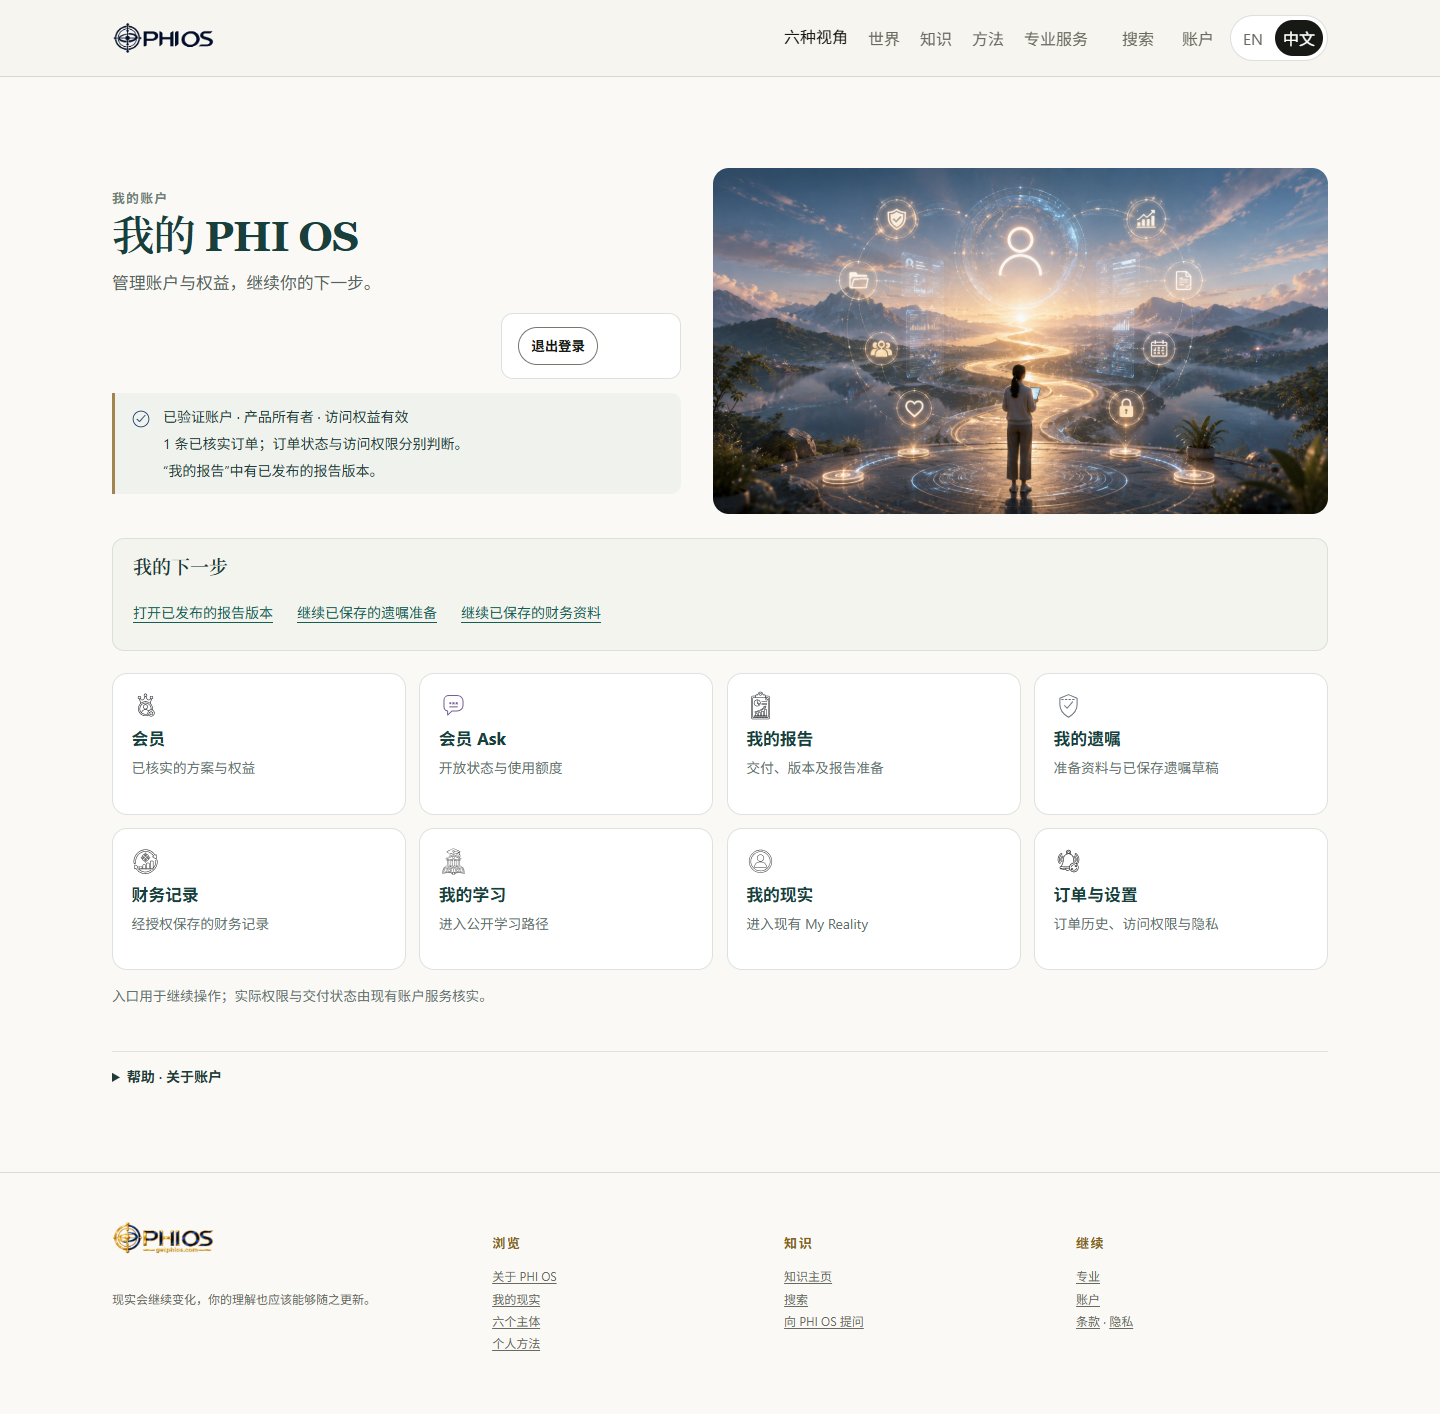
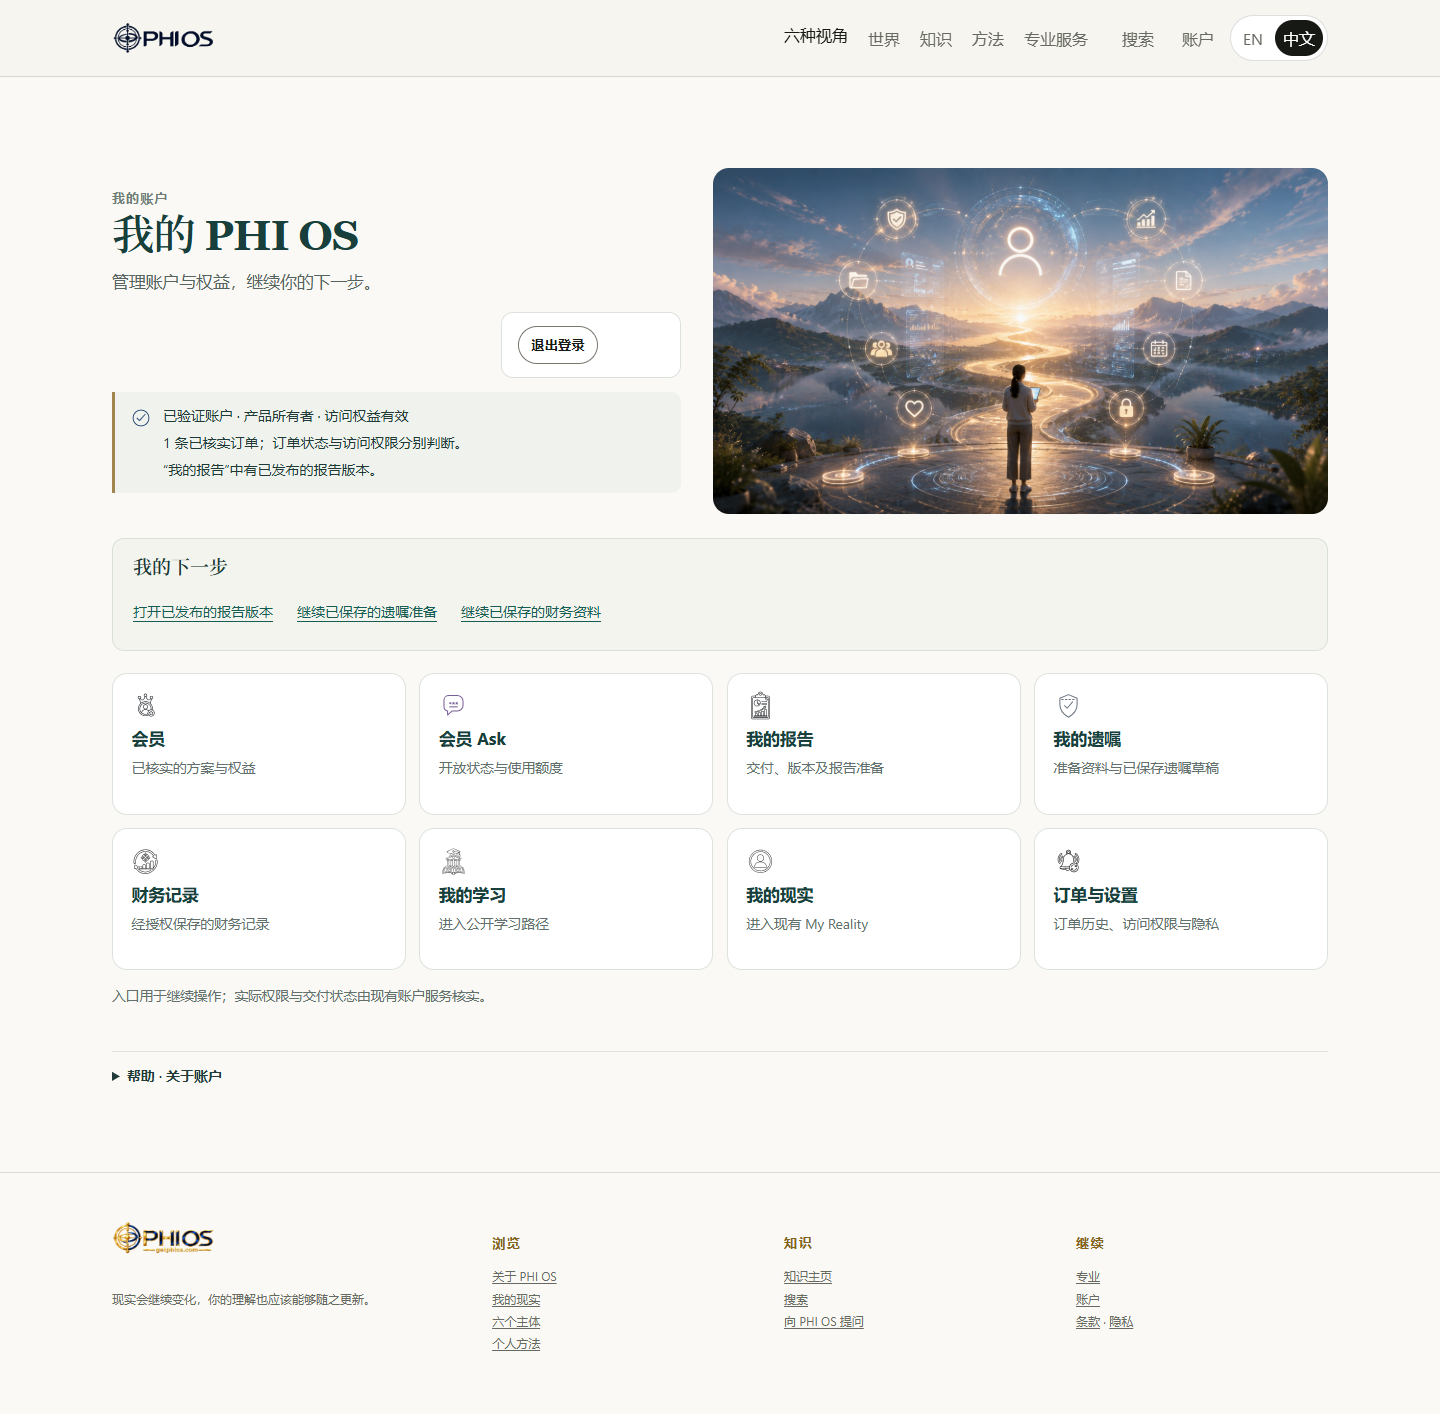
Reflect native report restrictions in Account dashboard state

diff --git a/assets/customer-ui/js/surfaces/account-hub-r5.js b/assets/customer-ui/js/surfaces/account-hub-r5.js
@@ -41,7 +41,7 @@ if(main){
   let lines=[];
   const activeRight=e=>!['REVOKED','EXPIRED','REFUNDED'].includes(String(e.state).toUpperCase())&&e.deliveryState==='ready';
   const member=commerce?.state==='verified'&&account.subscriptions.some(s=>s.accessGranted===true),owner=commerce?.state==='verified'&&account.entitlements.some(activeRight);
-  const restricted=!!reports?.restricted||commerce?.state==='verified'&&(account.entitlements.some(e=>['REVOKED','EXPIRED','REFUNDED'].includes(String(e.state).toUpperCase()))||account.orders.some(o=>['REFUNDED','PARTIALLY_REFUNDED','PAYMENT_FAILED','CANCELED'].includes(o.state)));
+  const restricted=!!reports?.restricted||!!views.get('methods')?.restricted||commerce?.state==='verified'&&(account.entitlements.some(e=>['REVOKED','EXPIRED','REFUNDED'].includes(String(e.state).toUpperCase()))||account.orders.some(o=>['REFUNDED','PARTIALLY_REFUNDED','PAYMENT_FAILED','CANCELED'].includes(o.state)));
   main.dataset.accountCustomerState=auth!=='signed-in'?auth:restricted?'restricted':member?'membership-active':owner?'product-owner':'authenticated';
   if(auth==='guest')lines.push(tr('Guest · Sign in to see your purchases, rights and private reports.','访客 · 登录后可核实购买、权益与私人报告。'));
   else if(auth==='unavailable')lines.push(tr('Authentication unavailable · Your purchases and access have not been confirmed.','登录服务暂不可用 · 购买及访问权限尚未确认。'));
@@ -54,10 +54,10 @@ if(main){
    }else lines.push(tr('Purchase history has not been verified.','购买历史尚未核实。'));
    if(reports?.pending)lines.push(tr('Report preparation is pending. Open My Reports for the server status.', '报告正在准备中，请在“我的报告”查看服务端状态。'));
    if(reports?.released)lines.push(tr('Released report versions are available in My Reports.','“我的报告”中有已发布的报告版本。'));
-   if(reports?.restricted)lines.push(tr('Report access is expired, refunded or revoked. It is not downloadable.','部分报告访问已到期、退款或撤销，不能下载。'));
+   if(reports?.restricted||views.get('methods')?.restricted)lines.push(tr('Report access is expired, refunded or revoked. It is not downloadable.','部分报告访问已到期、退款或撤销，不能下载。'));
    if(reports?.state==='unavailable'||views.get('drafts')?.state==='unavailable'||views.get('methods')?.state==='error')lines.push(tr('Some private records could not be loaded. Open the relevant area for its error and recovery action.','部分私人记录读取失败；请进入对应分区查看错误与恢复操作。'));
   }else lines.push(statusText(auth));
-  const overview=main.querySelector('[data-account-overview]');overview.dataset.accountState=auth;overview.hidden=auth!=='signed-in';const icon=document.createElement('img');icon.width=24;icon.height=24;icon.alt='';icon.setAttribute('aria-hidden','true');icon.className='account-r51__status-icon';const status=auth==='unavailable'?'UNAVAILABLE':auth==='loading'?'TEMPORARY':auth==='guest'?'SEPARATE':commerce?.state!=='verified'?(commerce?.state==='unavailable'?'UNAVAILABLE':'TEMPORARY'):reports?.restricted||account?.orders?.some(o=>['REFUNDED','PAYMENT_FAILED','CANCELED'].includes(o.state))?'PARTIAL':reports?.pending?'TEMPORARY':account?.subscriptions?.some(s=>s.accessGranted===true)||account?.entitlements?.some(e=>e.deliveryState==='ready')||reports?.released?'AVAILABLE':'SEPARATE';icon.dataset.accountIcon='PHIOS-ICON-STATUS-'+status+'-v1.svg';overview.dataset.statusIcon=status;const text=document.createElement('div');text.replaceChildren(...lines.map(value=>{const n=document.createElement('p');n.textContent=value;return n;}));overview.replaceChildren(icon,text);
+  const overview=main.querySelector('[data-account-overview]');overview.dataset.accountState=auth;overview.hidden=auth!=='signed-in';const icon=document.createElement('img');icon.width=24;icon.height=24;icon.alt='';icon.setAttribute('aria-hidden','true');icon.className='account-r51__status-icon';const status=auth==='unavailable'?'UNAVAILABLE':auth==='loading'?'TEMPORARY':auth==='guest'?'SEPARATE':commerce?.state!=='verified'?(commerce?.state==='unavailable'?'UNAVAILABLE':'TEMPORARY'):reports?.restricted||views.get('methods')?.restricted||account?.orders?.some(o=>['REFUNDED','PAYMENT_FAILED','CANCELED'].includes(o.state))?'PARTIAL':reports?.pending?'TEMPORARY':account?.subscriptions?.some(s=>s.accessGranted===true)||account?.entitlements?.some(e=>e.deliveryState==='ready')||reports?.released?'AVAILABLE':'SEPARATE';icon.dataset.accountIcon='PHIOS-ICON-STATUS-'+status+'-v1.svg';overview.dataset.statusIcon=status;const text=document.createElement('div');text.replaceChildren(...lines.map(value=>{const n=document.createElement('p');n.textContent=value;return n;}));overview.replaceChildren(icon,text);
   const membership=main.querySelector('[data-account-membership-view]');membership.innerHTML=auth!=='signed-in'?p(statusText(auth)):commerce?.state!=='verified'?p(statusText(commerce?.state)):p(account.subscriptions?.some(s=>s.accessGranted===true)?tr('Active membership · verified by your account service.','有效会员 · 已由账户服务核实。'):tr('No active membership was verified.','未核实到有效会员。'))+(account.subscriptions||[]).map(s=>p(tr('Plan','方案')+': '+(s.planName||commerceProductName(s)||s.entitlementCode||tr('Not provided by the account service','账户服务未提供'))+' · '+tr('Status','状态')+': '+(s.accessGranted===true?tr('Active','有效'):tr('Inactive or expired','未生效或已到期'))+(s.paidUntil?' · '+tr('Paid until','付款有效至')+': '+new Date(typeof s.paidUntil==='number'&&s.paidUntil<1e12?s.paidUntil*1000:s.paidUntil).toLocaleDateString(document.documentElement.lang):''))).join('')+p(tr('Product rights are listed below exactly as returned by the account service. A paid order alone does not unlock another product.','以下仅列出账户服务返回的产品权益；订单已付不代表其他产品已解锁。'))+((account.entitlements||[]).length?'<ul>'+account.entitlements.map(e=>'<li>'+esc(e.title||commerceProductName(e)||e.entitlementCode||tr('Product right','产品权益'))+' · '+esc(e.deliveryState||e.state||tr('Check order details','请核对订单详情'))+'</li>').join('')+'</ul>':p(tr('No product entitlements returned.','账户未返回产品权益。')));
   if(auth==='signed-in'&&commerce?.state==='verified')membership.innerHTML+=p(ask.state==='ready'?tr('Verified remaining usage: ','已核实剩余额度：')+ask.balance.credits+' PHI Credits':tr('Usage has not been verified. Open Paid Ask to check its availability and balance.','使用额度尚未核实，可进入会员 Ask 查看开放状态与余额。'));
   renderAsk();renderNextStep();bindIcons();

diff --git a/assets/customer-ui/js/surfaces/account-persons.js b/assets/customer-ui/js/surfaces/account-persons.js
@@ -21,7 +21,7 @@ function placeResults(){
 const methodState=r=>['EXPIRED','REVOKED','REFUNDED'].includes(String(r.status||r.releaseStatus).toUpperCase())?tr('Access expired or revoked','访问已到期或撤销'):String(r.status||'').startsWith('SYNTHETIC')?tr('Local QA review material','本地 QA 审阅资料'):r.status==='EXISTING_ACCOUNT_MATERIAL'?tr('Saved account material','已存账户资料'):tr('Released','已发布');
 function render(){
  queueMicrotask(()=>document.dispatchEvent(new Event("phios:account-rendered")));
- publishAccountView('methods',{state:reportsState,available,count:reports.length,released:reports.filter(r=>r.downloadAllowed!==false&&['ACTIVE','RELEASED'].includes(String(r.status||r.releaseStatus).toUpperCase())).length});
+ publishAccountView('methods',{state:reportsState,available,count:reports.length,restricted:reports.filter(r=>r.downloadAllowed===false||['REVOKED','EXPIRED','REFUNDED'].includes(String(r.status||r.releaseStatus).toUpperCase())).length,released:reports.filter(r=>r.downloadAllowed!==false&&['ACTIVE','RELEASED'].includes(String(r.status||r.releaseStatus).toUpperCase())).length});
  const p=persons.find(p=>p.personId===editing),birth=p?.canonicalBirthInput;
  host.innerHTML=`<div class="cx-person-hub__header"><div><p class="cx-eyebrow">${esc(tr('BIRTH DETAILS','出生资料'))}</p><h2>${esc(tr('Your birth details','你的出生资料'))}</h2><p>${esc(tr('Enter the details you know. PHI OS resolves coordinates, country, timezone and the historical UTC offset from the birth place you confirm.','只填写你知道的资料。确认出生地点后，PHI OS 会自动解析坐标、国家、时区及出生当时的 UTC 偏移。'))}</p></div></div>${message?`<p class="cx-person-message" role="status">${esc(message)}</p>`:''}${available?`
  <div class="cx-stack">${persons.map(p=>`<article><h3>${esc(p.name)}</h3><p>${esc(p.consentState==='ACTIVE'?tr('Consent active','同意有效'):tr('Consent withdrawn','已撤回同意'))} · ${esc(tr('Version','版本'))} ${p.version}</p><button class="cx-button" data-edit="${esc(p.personId)}">${esc(tr('Edit','修改'))}</button> <button class="cx-button cx-button--secondary" data-revoke="${esc(p.personId)}">${esc(tr('Withdraw consent','撤回同意'))}</button></article>`).join('')}</div>
